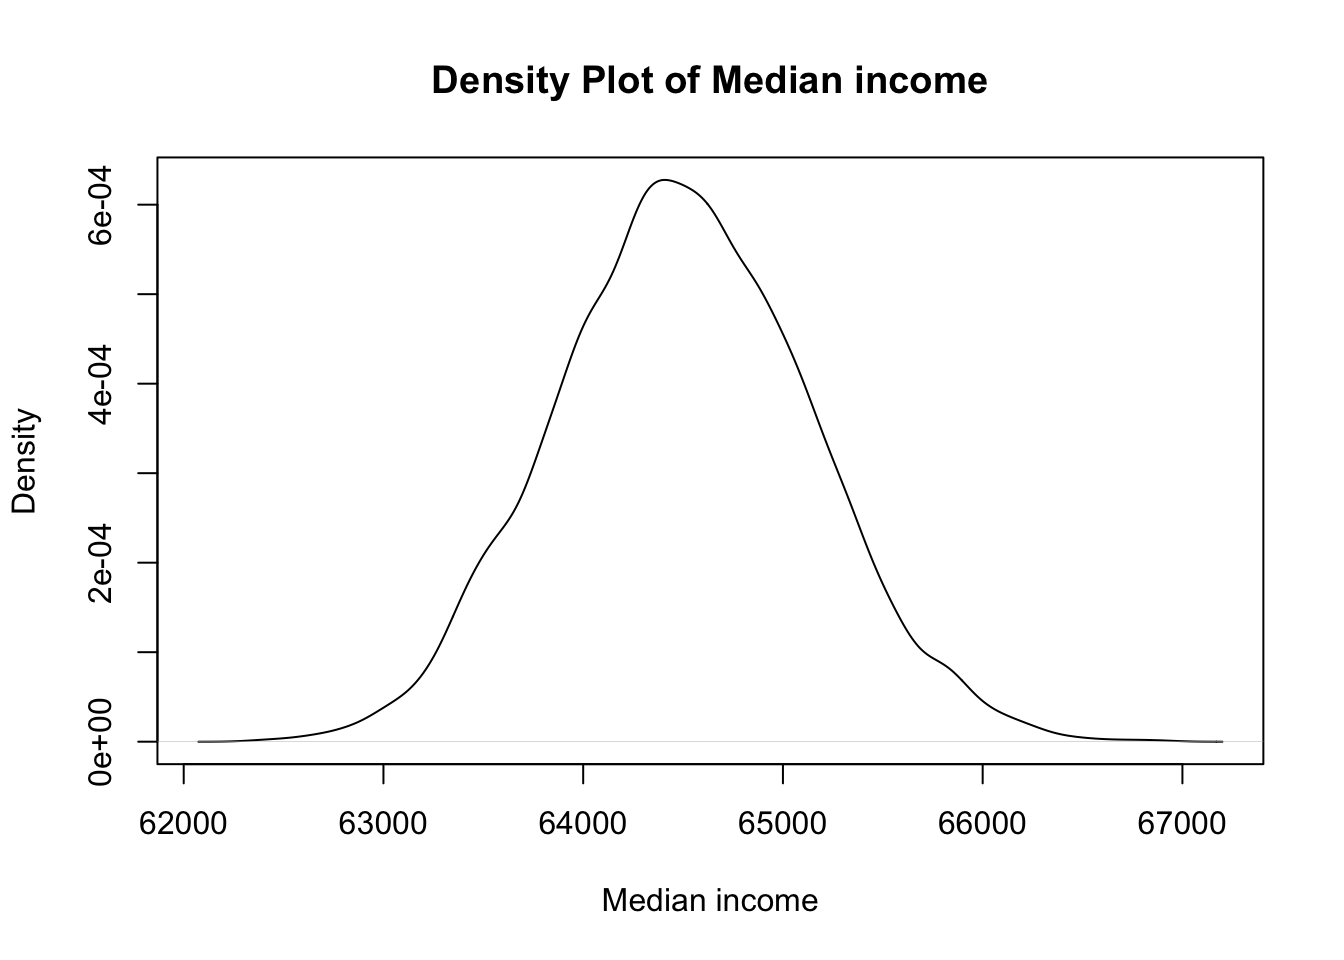
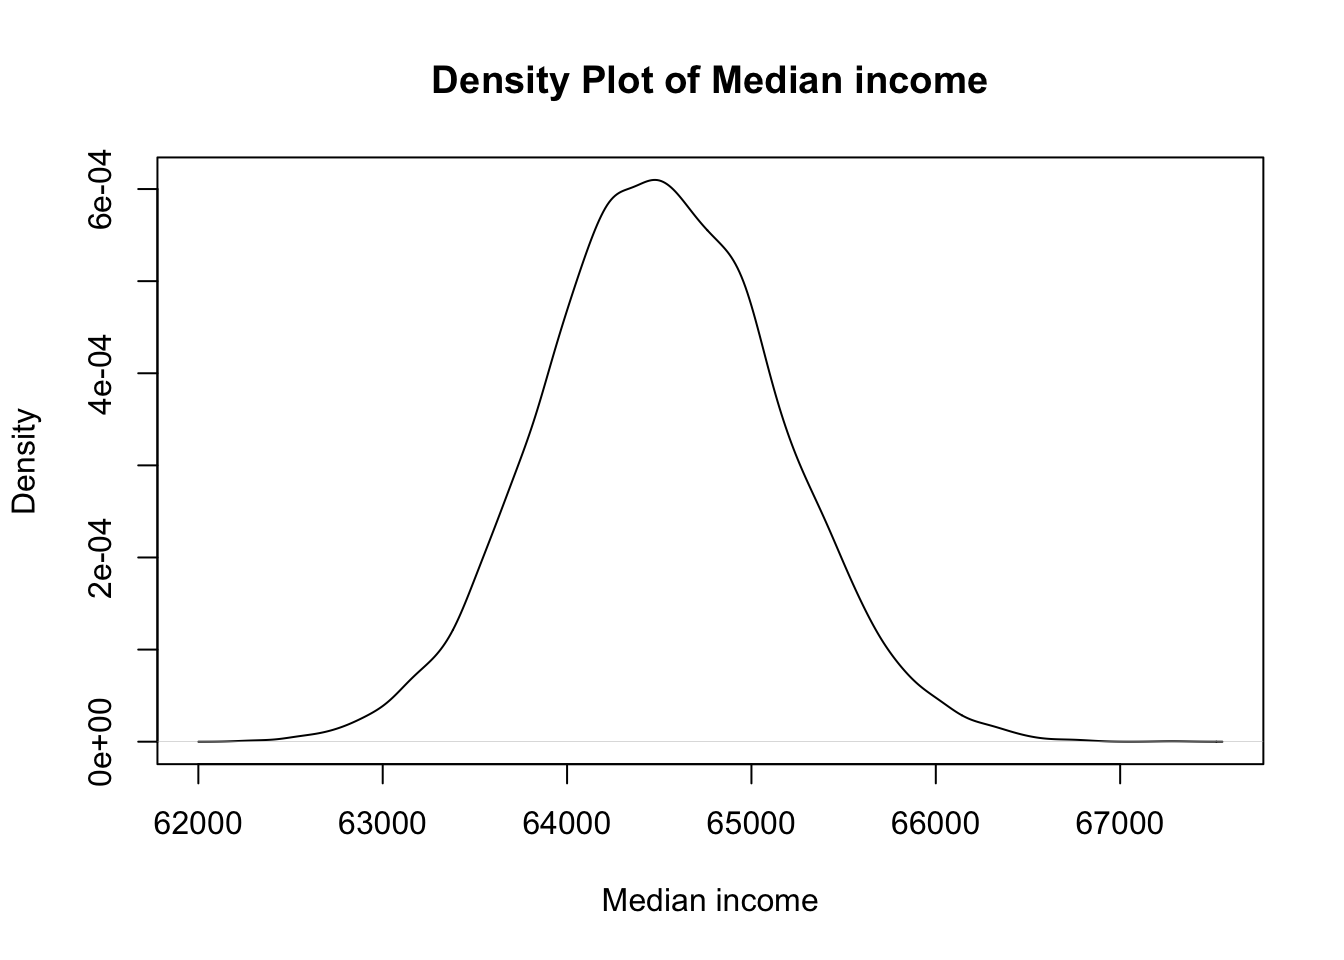
fragility 29.9.24

diff --git a/docs/Catallactics/Personal/pricing.html b/docs/Catallactics/Personal/pricing.html
@@ -6,7 +6,7 @@
 
 <meta name="viewport" content="width=device-width, initial-scale=1.0, user-scalable=yes">
 
-<meta name="dcterms.date" content="2024-09-25">
+<meta name="dcterms.date" content="2024-09-29">
 
 <title>knotes - Hedge pricing</title>
 <style>
@@ -901,7 +901,7 @@ cookieconsent.run({
     <div>
     <div class="quarto-title-meta-heading">Published</div>
     <div class="quarto-title-meta-contents">
-      <p class="date">September 25, 2024</p>
+      <p class="date">September 29, 2024</p>
     </div>
   </div>
   
@@ -947,7 +947,7 @@ cookieconsent.run({
 <span id="cb2-3"><a href="#cb2-3" aria-hidden="true" tabindex="-1"></a>closing_price</span></code><button title="Copy to Clipboard" class="code-copy-button"><i class="bi"></i></button></pre></div>
 </details>
 <div class="cell-output cell-output-stdout">
-<pre><code>[1] 25940.4</code></pre>
+<pre><code>[1] 26178.95</code></pre>
 </div>
 </div>
 </section>
@@ -1007,7 +1007,7 @@ attr(,"class")
 <div class="sourceCode cell-code" id="cb8"><pre class="sourceCode r code-with-copy"><code class="sourceCode r"><span id="cb8-1"><a href="#cb8-1" aria-hidden="true" tabindex="-1"></a><span class="fu">print</span>(closing_price)</span></code><button title="Copy to Clipboard" class="code-copy-button"><i class="bi"></i></button></pre></div>
 </details>
 <div class="cell-output cell-output-stdout">
-<pre><code>[1] 25940.4</code></pre>
+<pre><code>[1] 26178.95</code></pre>
 </div>
 <details class="code-fold">
 <summary>Code</summary>
@@ -1021,7 +1021,7 @@ attr(,"class")
 <div class="sourceCode cell-code" id="cb12"><pre class="sourceCode r code-with-copy"><code class="sourceCode r"><span id="cb12-1"><a href="#cb12-1" aria-hidden="true" tabindex="-1"></a>strike</span></code><button title="Copy to Clipboard" class="code-copy-button"><i class="bi"></i></button></pre></div>
 </details>
 <div class="cell-output cell-output-stdout">
-<pre><code>[1] 22049.34</code></pre>
+<pre><code>[1] 22252.11</code></pre>
 </div>
 <details class="code-fold">
 <summary>Code</summary>
@@ -1030,10 +1030,10 @@ attr(,"class")
 <div class="cell-output cell-output-stdout">
 <pre><code>Concise summary of valuation for EuropeanOption 
      value      delta      gamma       vega      theta        rho     divRho 
-  121.4995    -0.0693     0.0000  2621.8610  -297.7141 -1104.1007  1034.2385 </code></pre>
+  122.6168    -0.0693     0.0000  2645.9717  -300.4519 -1114.2541  1043.7494 </code></pre>
 </div>
 </div>
-<p>Price of a <strong>4 month 5 delta option</strong> is 121 for the given strike price</p>
+<p>Price of a <strong>4 month 5 delta option</strong> is 123 for the given strike price</p>
 </section>
 <section id="take-home-message" class="level2">
 <h2 class="anchored" data-anchor-id="take-home-message">Take home message</h2>

diff --git a/docs/posts.html b/docs/posts.html
@@ -1025,9 +1025,9 @@ Categories
 <span class="listing-categories">technology, ev</span>
 </td>
 </tr>
-<tr data-index="1" data-categories="Monte Carlo simulation,economics" data-listing-date-sort="1727202600000" data-listing-file-modified-sort="1716203287606" data-listing-date-modified-sort="NaN" data-listing-reading-time-sort="8" data-listing-word-count-sort="1412" data-listing-title-sort="Income distribution" data-listing-filename-sort="montecarlo.qmd">
+<tr data-index="1" data-categories="Monte Carlo simulation,economics" data-listing-date-sort="1727548200000" data-listing-file-modified-sort="1716203287606" data-listing-date-modified-sort="NaN" data-listing-reading-time-sort="8" data-listing-word-count-sort="1412" data-listing-title-sort="Income distribution" data-listing-filename-sort="montecarlo.qmd">
 <td>
-<span class="listing-date">Sep 25, 2024</span>
+<span class="listing-date">Sep 29, 2024</span>
 </td>
 <td>
 <a href="./posts/montecarlo.html" class="title listing-title">Income distribution</a>
@@ -1039,7 +1039,7 @@ Categories
 <span class="listing-categories">Monte Carlo simulation, economics</span>
 </td>
 </tr>
-<tr data-index="2" data-categories="art" data-listing-date-sort="1727202600000" data-listing-file-modified-sort="1727254742870" data-listing-date-modified-sort="NaN" data-listing-reading-time-sort="5" data-listing-word-count-sort="804" data-listing-title-sort="Pink roses in a white pot" data-listing-filename-sort="Pink roses.qmd">
+<tr data-index="2" data-categories="art" data-listing-date-sort="1727202600000" data-listing-file-modified-sort="1727596581822" data-listing-date-modified-sort="NaN" data-listing-reading-time-sort="5" data-listing-word-count-sort="804" data-listing-title-sort="Pink roses in a white pot" data-listing-filename-sort="Pink roses.qmd">
 <td>
 <span class="listing-date">Sep 25, 2024</span>
 </td>

diff --git a/docs/posts/montecarlo.html b/docs/posts/montecarlo.html
@@ -6,7 +6,7 @@
 
 <meta name="viewport" content="width=device-width, initial-scale=1.0, user-scalable=yes">
 
-<meta name="dcterms.date" content="2024-09-25">
+<meta name="dcterms.date" content="2024-09-29">
 
 <title>knotes - Income distribution</title>
 <style>
@@ -940,7 +940,7 @@ window.Quarto = {
     <div>
     <div class="quarto-title-meta-heading">Published</div>
     <div class="quarto-title-meta-contents">
-      <p class="date">September 25, 2024</p>
+      <p class="date">September 29, 2024</p>
     </div>
   </div>
   
@@ -1078,7 +1078,7 @@ Income distribution is not normal
 </details>
 <div class="cell-output cell-output-stdout">
 <pre><code>     Min.   1st Qu.    Median      Mean   3rd Qu.      Max. 
-2.070e+05 2.986e+05 3.453e+05 8.276e+05 4.350e+05 1.522e+09 </code></pre>
+2.143e+05 2.967e+05 3.438e+05 9.252e+05 4.360e+05 3.030e+09 </code></pre>
 </div>
 <details open="" class="code-fold">
 <summary>Code</summary>
@@ -1086,7 +1086,7 @@ Income distribution is not normal
 </details>
 <div class="cell-output cell-output-stdout">
 <pre><code>   Min. 1st Qu.  Median    Mean 3rd Qu.    Max. 
-  62347   64060   64490   64499   64929   66927 </code></pre>
+  62274   64081   64502   64514   64943   67281 </code></pre>
 </div>
 <details open="" class="code-fold">
 <summary>Code</summary>
@@ -1094,7 +1094,7 @@ Income distribution is not normal
 </details>
 <div class="cell-output cell-output-stdout">
 <pre><code>     Min.   1st Qu.    Median      Mean   3rd Qu.      Max. 
-8.699e+05 3.379e+06 5.735e+06 5.337e+07 1.189e+07 1.522e+11 </code></pre>
+9.811e+05 3.368e+06 5.628e+06 6.304e+07 1.177e+07 3.029e+11 </code></pre>
 </div>
 </div>
 </section>

diff --git a/docs/Revision notes/Adult pathology/Fragility.html b/docs/Revision notes/Adult pathology/Fragility.html
@@ -842,6 +842,7 @@ cookieconsent.run({
   <ul>
   <li><a href="#strengthening-exercise" id="toc-strengthening-exercise" class="nav-link active" data-scroll-target="#strengthening-exercise"><strong>Strengthening exercise</strong></a></li>
   <li><a href="#aerobic-exercise" id="toc-aerobic-exercise" class="nav-link" data-scroll-target="#aerobic-exercise"><strong>Aerobic exercise</strong></a></li>
+  <li><a href="#barbell-approach" id="toc-barbell-approach" class="nav-link" data-scroll-target="#barbell-approach">Barbell approach</a></li>
   </ul>
 </nav>
     </div>
@@ -874,7 +875,7 @@ cookieconsent.run({
 </figure>
 </div>
 <p>AMP kinase is believed to be the central switch that positively regulate the life span of an individual.</p>
-<p>It is up regulated by:</p>
+<p>It is up regulated by (via SIRT 1):</p>
 <ul>
 <li><p>Aerobic exercise</p></li>
 <li><p>Starvation</p></li>
@@ -906,6 +907,11 @@ cookieconsent.run({
 <ul>
 <li>150 minutes of moderate intensity or 75 minutes of high intensity aerobic exercise are both beneficial</li>
 </ul>
+</section>
+<section id="barbell-approach" class="level2">
+<h2 class="anchored" data-anchor-id="barbell-approach">Barbell approach</h2>
+<p>It is fair to assume that our genes have not yet evolved enough to process an abundance of food and a total lack of physical exertion. Cavemen were accustomed to bouts of physical exertion (for food, mates, and escaping enemies) and sporadic feasts with prolonged periods of an empty stomach.</p>
+<p>Emulating eating and exercise patterns in line with our ancestors could be promising.</p>
 
 
 </section>

diff --git a/docs/posts/Pink roses.html b/docs/posts/Pink roses.html
@@ -900,7 +900,7 @@ cookieconsent.run({
 <section id="aesthetic-appeal" class="level2">
 <h2 class="anchored" data-anchor-id="aesthetic-appeal"><strong>Aesthetic Appeal</strong></h2>
 <ol type="1">
-<li><p><strong>Color Palette</strong>: The soft pinks of the roses complement the light, creamy yellow background, giving the painting a gentle and soothing appearance. The green leaves add contrast, balancing the overall composition.</p></li>
+<li><p><strong>Colour Palette</strong>: The soft pinks of the roses complement the light, creamy yellow background, giving the painting a gentle and soothing appearance. The green leaves add contrast, balancing the overall composition.</p></li>
 <li><p><strong>Technique</strong>: The watercolour style with the soft blending of colours, especially in the background, creates a textured effect. The roses are more defined, with delicate shading, which enhances their three-dimensional look. The artist has achieved a nice balance between detail and softness.</p></li>
 <li><p><strong>Composition</strong>: Centering the pot and flowers focus the viewer’s attention directly on the subject. The background has a textured yet minimalistic feel, which avoids distracting from the focal point of the painting.</p></li>
 <li><p><strong>Lighting</strong>: The light effect in the background, with rays gently illuminating the roses, adds a warm, almost glowing atmosphere to the scene, giving the painting a serene and uplifting mood.</p></li>

diff --git a/docs/Revision notes/Diagrams/diagrams.html b/docs/Revision notes/Diagrams/diagrams.html
@@ -1357,7 +1357,7 @@ window.document.addEventListener("DOMContentLoaded", function (event) {
 </div>
   </div>
 </footer>
-<script>var lightboxQuarto = GLightbox({"closeEffect":"zoom","loop":false,"descPosition":"bottom","openEffect":"zoom","selector":".lightbox"});
+<script>var lightboxQuarto = GLightbox({"selector":".lightbox","closeEffect":"zoom","openEffect":"zoom","descPosition":"bottom","loop":false});
 window.onload = () => {
   lightboxQuarto.on('slide_before_load', (data) => {
     const { slideIndex, slideNode, slideConfig, player, trigger } = data;

diff --git a/docs/Catallactics/Personal/IMA SSS.html b/docs/Catallactics/Personal/IMA SSS.html
@@ -6,7 +6,7 @@
 
 <meta name="viewport" content="width=device-width, initial-scale=1.0, user-scalable=yes">
 
-<meta name="dcterms.date" content="2024-09-25">
+<meta name="dcterms.date" content="2024-09-29">
 
 <title>knotes - IMA SSS</title>
 <style>
@@ -871,7 +871,7 @@ cookieconsent.run({
     <div>
     <div class="quarto-title-meta-heading">Published</div>
     <div class="quarto-title-meta-contents">
-      <p class="date">September 25, 2024</p>
+      <p class="date">September 29, 2024</p>
     </div>
   </div>
   

diff --git a/docs/Biomedical/Research Methodology/wrangling.html b/docs/Biomedical/Research Methodology/wrangling.html
@@ -2378,7 +2378,7 @@ Record
 3:     3     0  child
 4:     4     0  child
 5:     5     1  child
-6:     6     1  child</code></pre>
+6:     6     0  child</code></pre>
 </div>
 </div>
 <section id="making-data-wide" class="level3">
@@ -2401,7 +2401,7 @@ Record
 3:     3  child   &lt;NA&gt;
 4:     4  child   &lt;NA&gt;
 5:     5   &lt;NA&gt;  child
-6:     6   &lt;NA&gt;  child</code></pre>
+6:     6  child   &lt;NA&gt;</code></pre>
 </div>
 </div>
 
